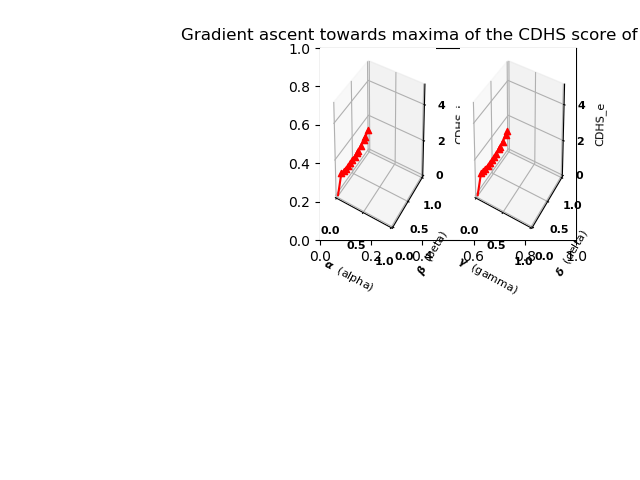
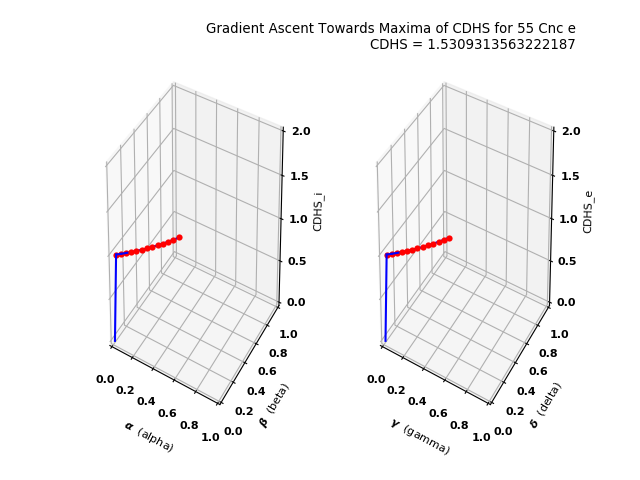
completed movie making

diff --git a/MLAnalysis/sga-cdhpf-conv-comb-movie.py b/MLAnalysis/sga-cdhpf-conv-comb-movie.py
@@ -2,7 +2,9 @@ import numpy as np
 from random import randint
 from mpl_toolkits.mplot3d import Axes3D
 import matplotlib.pyplot as plt
-import matplotlib.animation as animation
+#import matplotlib.animation as animation
+#from matplotlib import style
+#style.use('fivethirtyeight')
 
 def sga(rate, a1, a2, F1, F2, UL):
     LL = 0.001
@@ -28,12 +30,10 @@ def sga(rate, a1, a2, F1, F2, UL):
     cdhsx = (F1**a1)*(F2**a2)
     return a1, a2, rate, cdhsx
 
-R = 5
-D = 5
-T = 5
-#T = 396.5/288
-#T = 1833.5
-V = 5
+R = 1.99
+D = 1.03
+T = 1833.5/288
+V = 2.02
 
 a = 0.01
 b = 0.01
@@ -50,10 +50,11 @@ gamma = []
 delta = []
 cdhs_i = []
 cdhs_e = []
-cdhs = []
+#cdhs = []
 
 fig = plt.figure()
-plt.title('Gradient ascent towards maxima of the CDHS score of 55 Cnc e')
+
+#plt.title('Gradient ascent towards maxima of the CDHS score of 55 Cnc e')
 font = {'family' : 'normal',
         'weight' : 'bold',
         'size'   : 8}
@@ -65,7 +66,7 @@ ax1.set_ylabel(r'$\beta$' + '  (beta)')
 ax1.set_zlabel('CDHS_i')
 ax1.set_xlim3d(0, 1)
 ax1.set_ylim3d(0, 1)
-ax1.set_zlim3d(0, 5)
+ax1.set_zlim3d(0, 2)
 
 ax2 = fig.add_subplot(122, projection = '3d')
 ax2.set_xlabel(r'$\gamma$' + '  (gamma)')
@@ -73,13 +74,12 @@ ax2.set_ylabel(r'$\delta$' + '  (delta)')
 ax2.set_zlabel('CDHS_e')
 ax2.set_xlim3d(0, 1)
 ax2.set_ylim3d(0, 1)
-ax2.set_zlim3d(0, 5)
-#fig.subplots_adjust(left=-0.5, right=-0.9, top=-0.9, bottom=-0.5)
+ax2.set_zlim3d(0, 2)
 
 ll = 0
 img_index = 0
-for i in range(0, 19):
-    ll = ll + 0.05
+for i in range(0, 20):
+
     ul = ll + 0.05
     a1, b1, r11, c11 = sga(r1, a, b, R, D, ul)
     g1, d1, r21, c21 = sga(r2, g, d, R, D, ul)
@@ -91,13 +91,16 @@ for i in range(0, 19):
 
     cdhs_i.append(c1)
     cdhs_e.append(c2)
-    cdhs.append((0.5*c11)*(0.5*c21))
+    #cdhs.append((0.5*c11)*(0.5*c21))
+    cdhs = (0.5*c11) + (0.5*c21)
     print(a, b, g, d, c1, c2)
 
-    ax1.plot([a, a1], [b, b1], [c1, c11], c='r')
-    ax2.plot([g, g1], [d, d1], [c2, c21], c='r')
-    ax1.scatter(a1, b1, c11, c='r', marker = '^')
-    ax2.scatter(g1, d1, c21, c='r', marker = '^')
+    plt.title('Gradient Ascent Towards Maxima of CDHS for 55 Cnc e\nCDHS = '
+                    + str(cdhs), loc='right')
+    ax1.plot([a, a1], [b, b1], [c1, c11], c='b')
+    ax2.plot([g, g1], [d, d1], [c2, c21], c='b')
+    ax1.scatter(a1, b1, c11, c='r', marker = 'o', linewidths=0.01)
+    ax2.scatter(g1, d1, c21, c='r', marker = 'o', linewidths=0.01)
 
     a = a1
     b = b1
@@ -105,11 +108,13 @@ for i in range(0, 19):
     d = d1
     c1 = c11
     c2 = c21
-    r1 = r11
-    r2 = r21
+    #r1 = r11
+    #r2 = r21
 
     plt.savefig('movie-frames/' + str(img_index)+'.png')
+    #plt.show()
     img_index = img_index + 1
+    ll = ll + 0.05
 print('---')
 
 plt.show()
